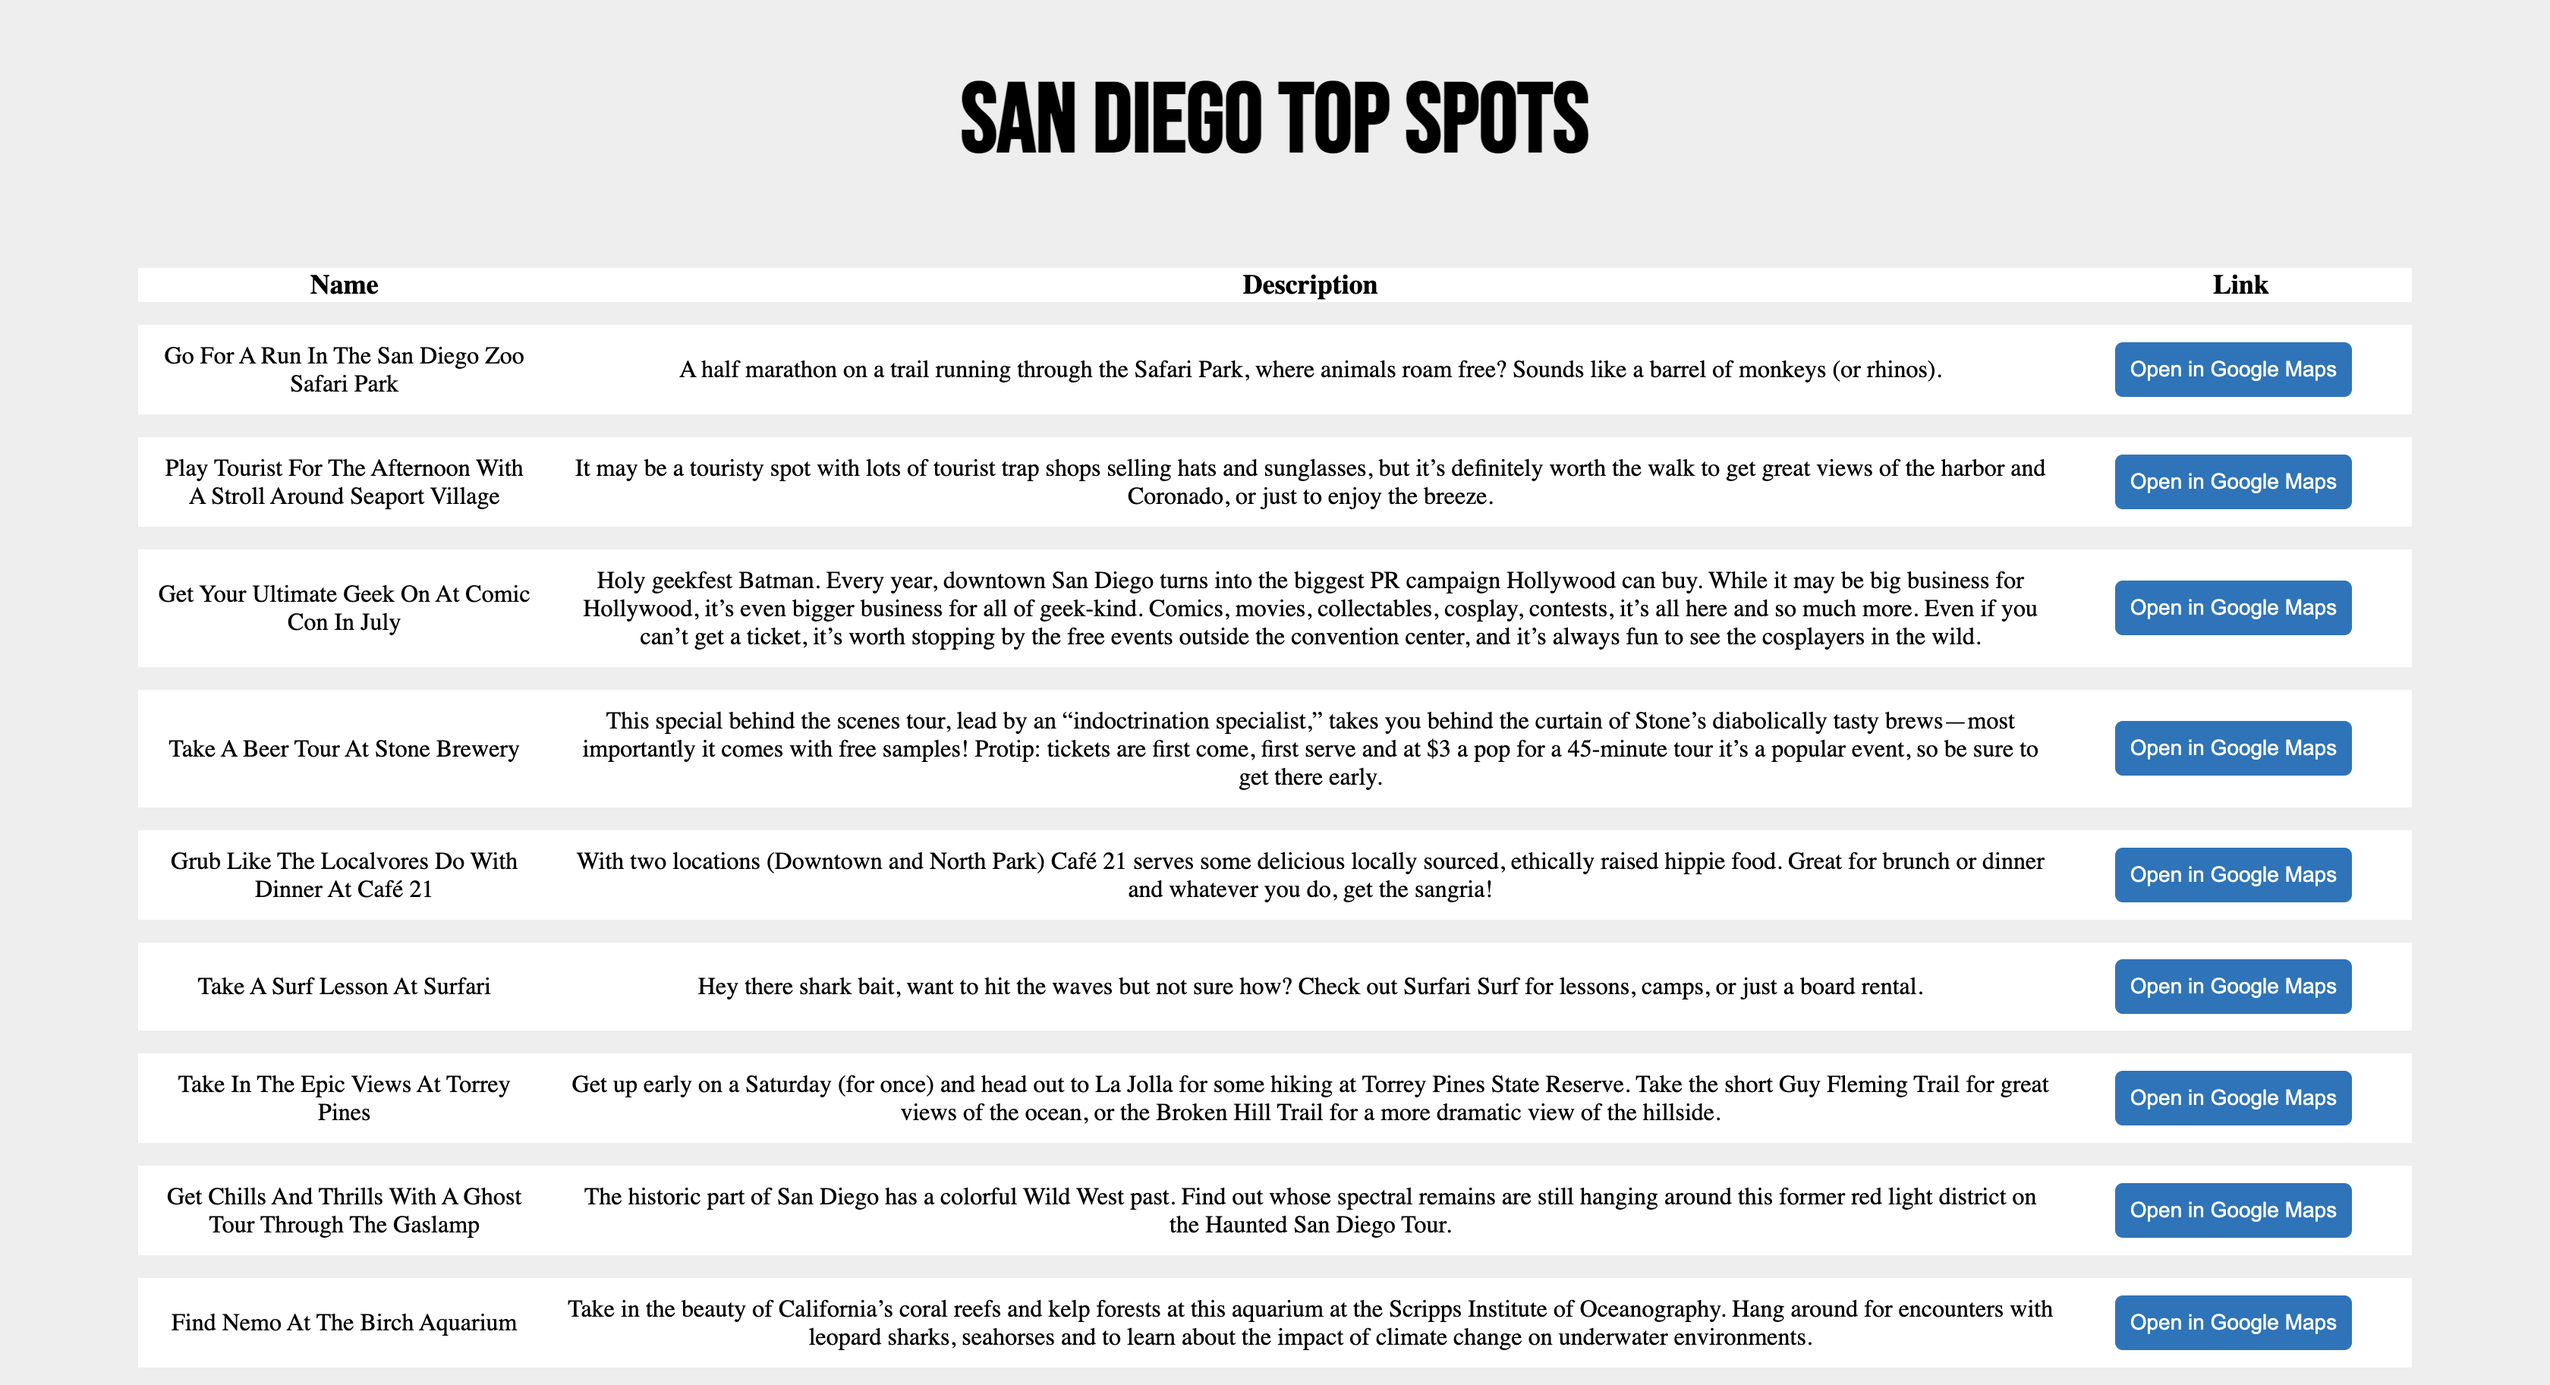
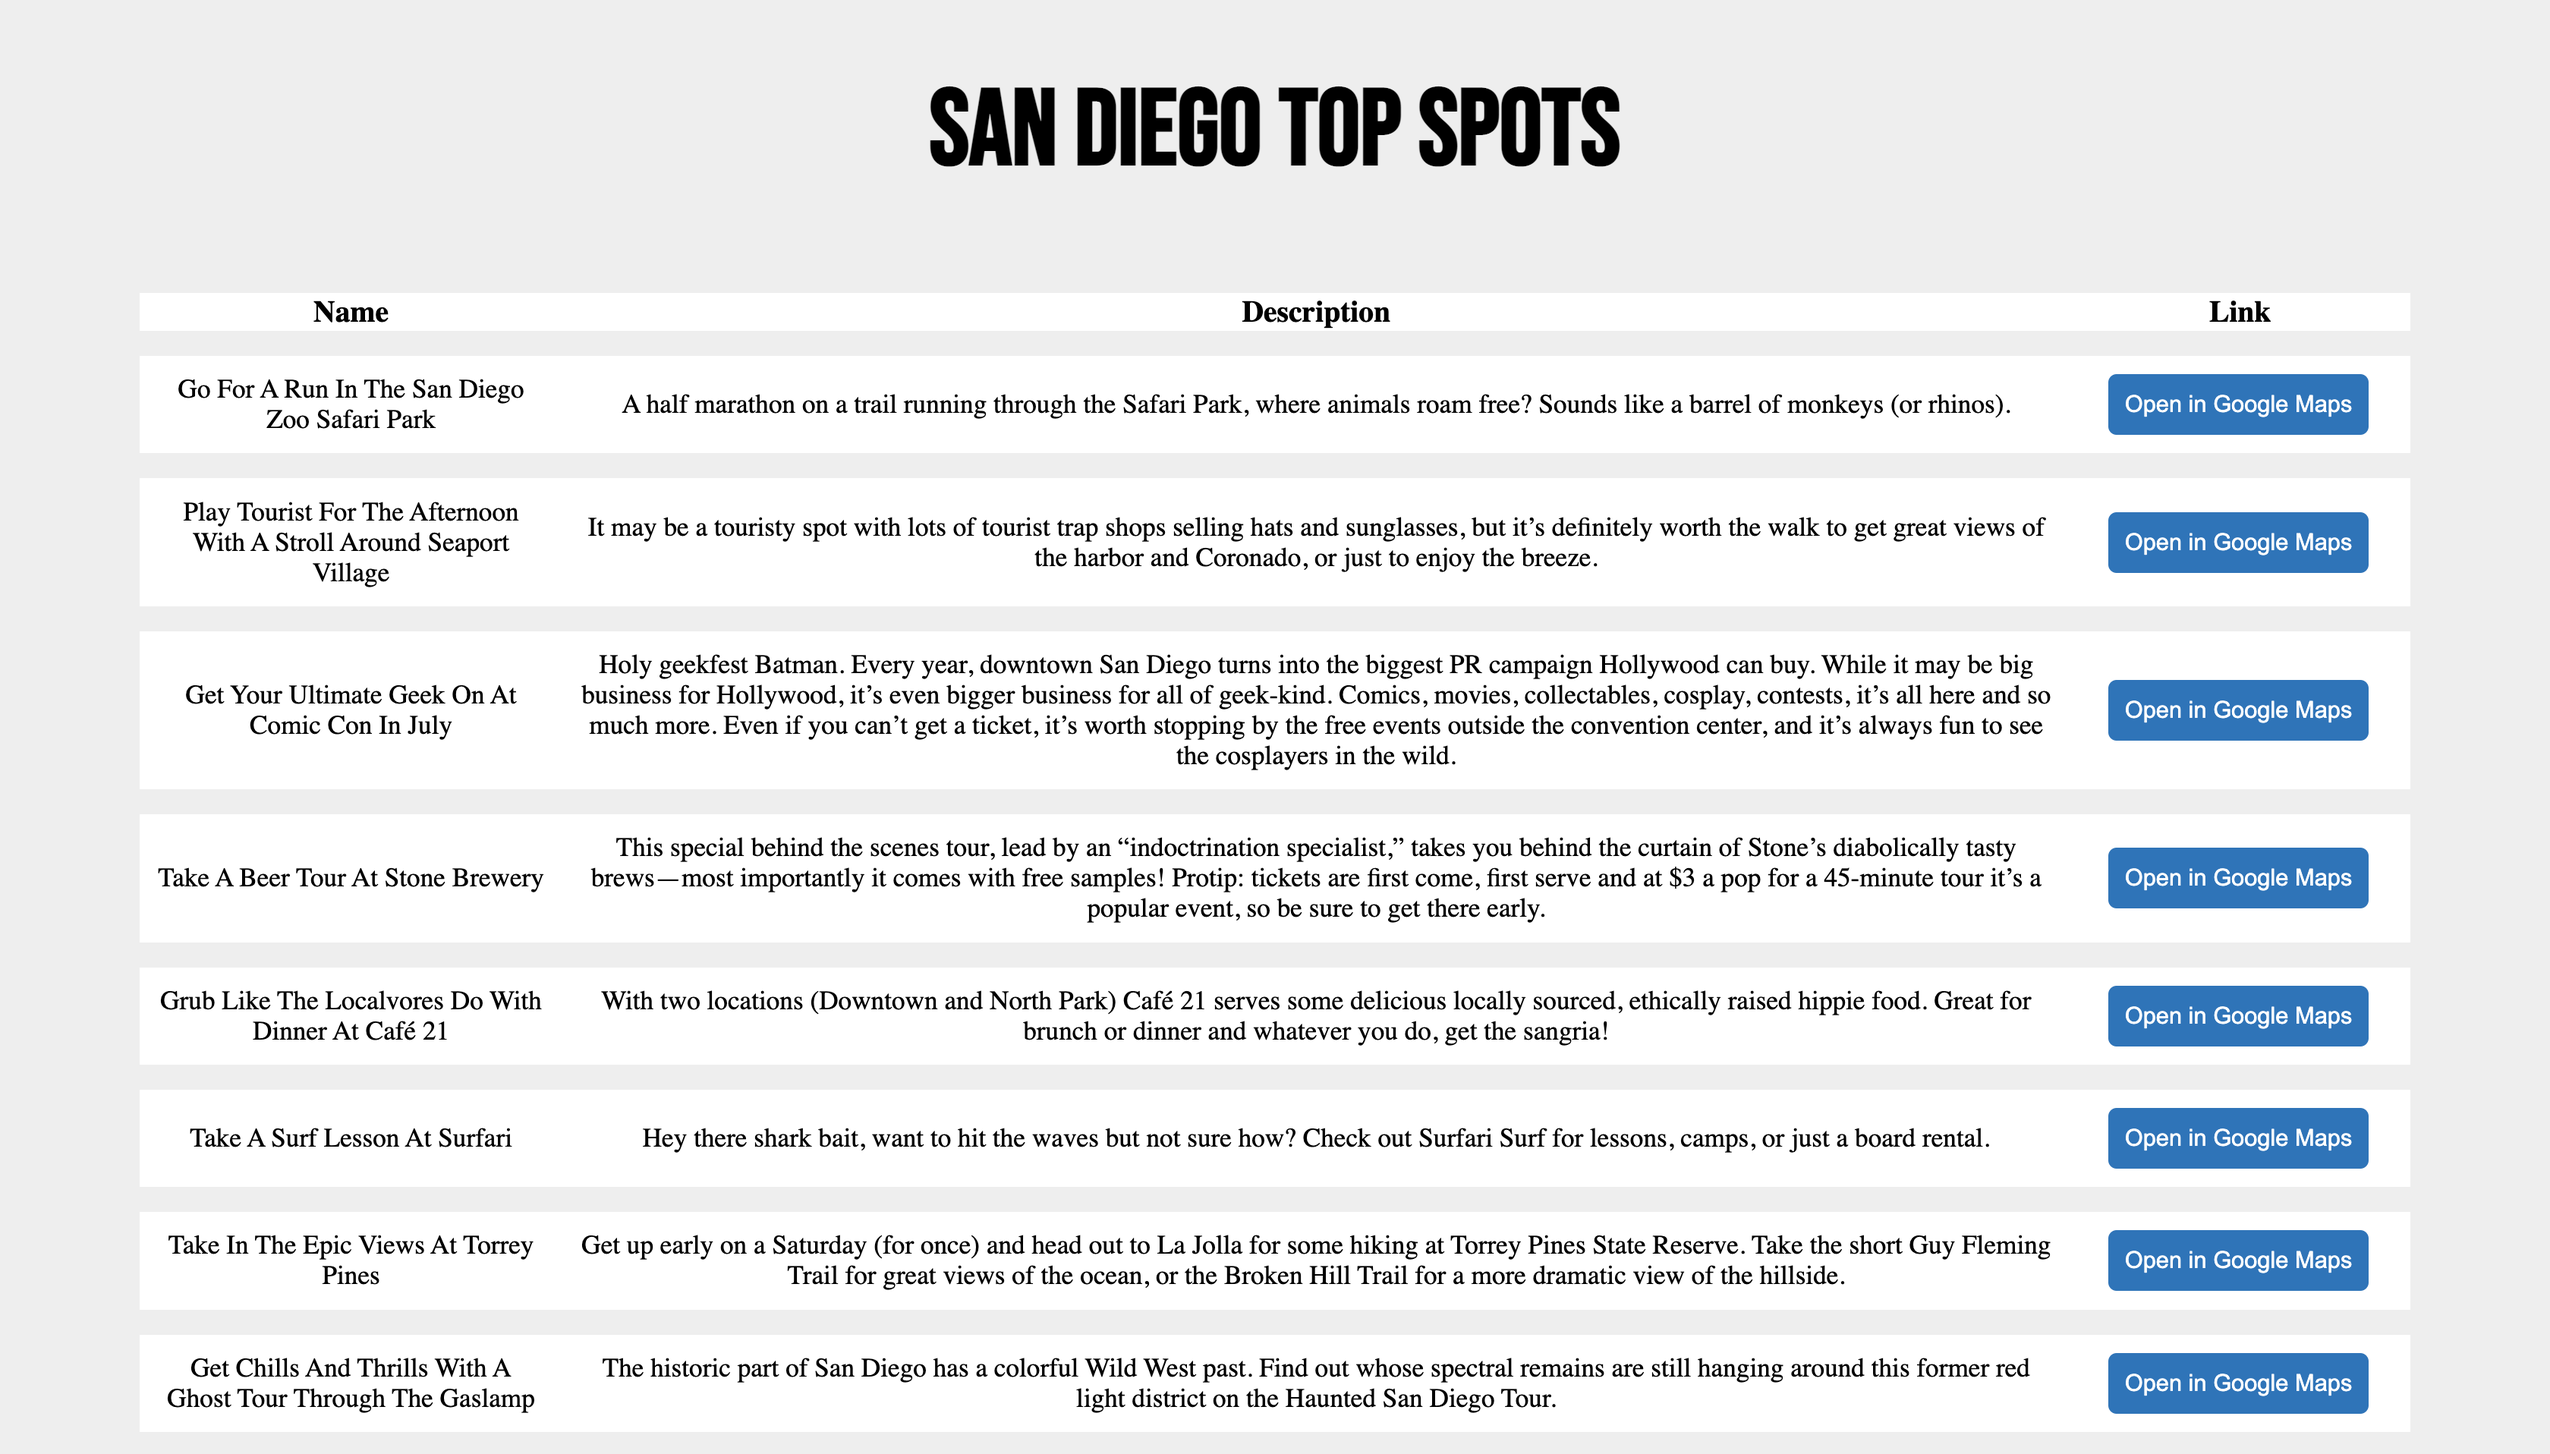
Update project photos in assets and margin in style.css

diff --git a/style.css b/style.css
@@ -33,7 +33,7 @@ td {
 #location-button {
     border: none;
     border-radius: 5px;
-    margin-right: 10px;
+    margin-right: 2px;
     padding: 10px;
     background-color: #0274be;
     color: white;
